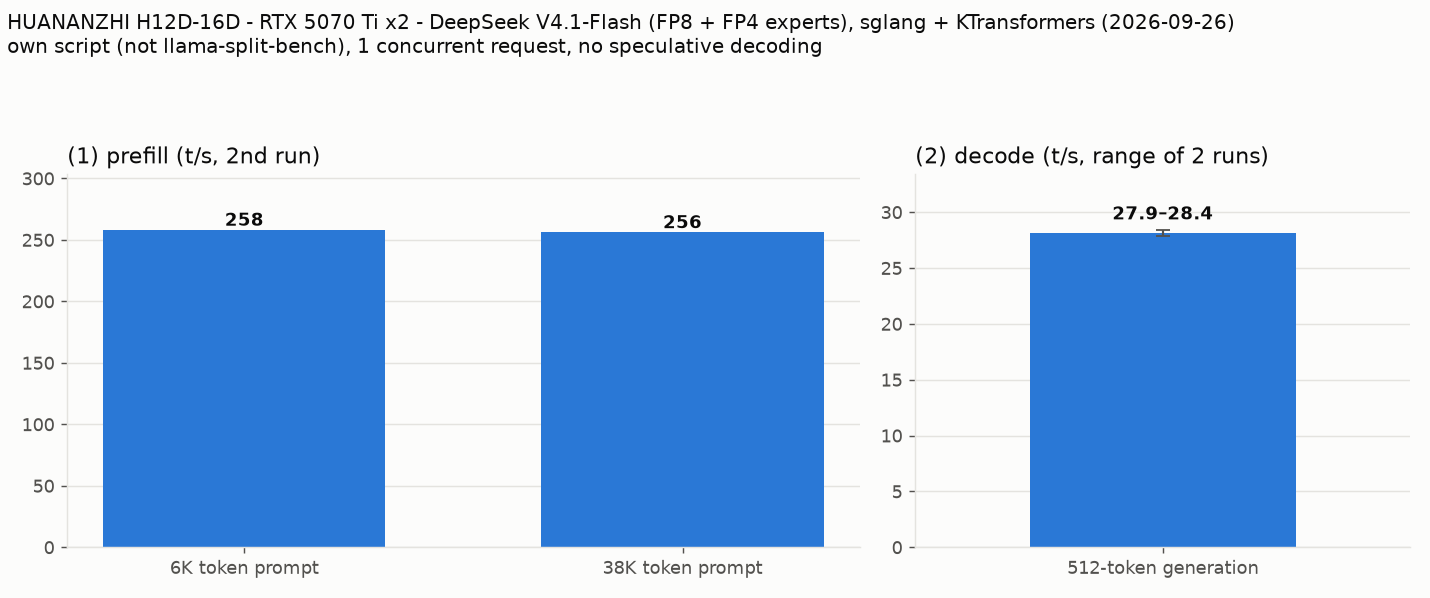
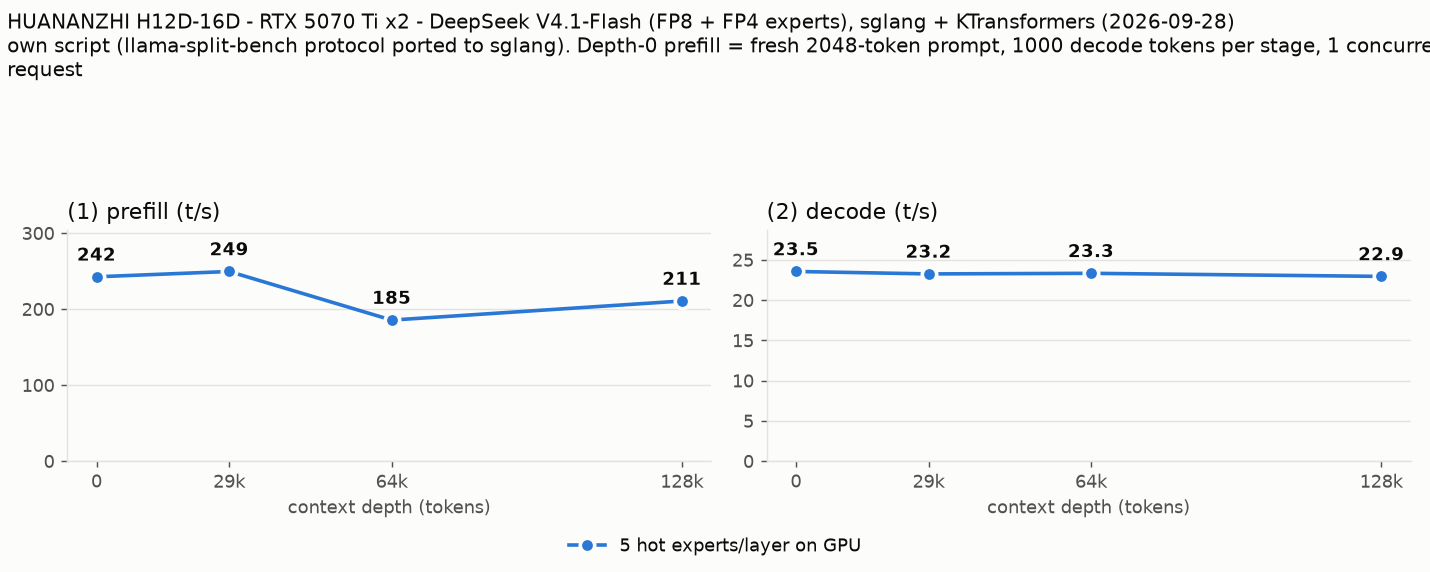
report: add the depth ladder (0/32K/64K/128K) as the main result
Maintainer request on #16: the llama-split-bench depth ladder, measured with the same
protocol ported to sglang (tools/sglang-ladder.py). The 09-26 real-prompt results stay
as a reference block.

diff --git a/report/2026-09-26_093347_running_deepseek_v4.1_flash_with_1m_context_on_2x_epyc_7452_and_2x_rtx_5070_ti_with_sglang_and_ktransformers.md b/report/2026-09-26_093347_running_deepseek_v4.1_flash_with_1m_context_on_2x_epyc_7452_and_2x_rtx_5070_ti_with_sglang_and_ktransformers.md
@@ -36,17 +36,41 @@ llama.cpp ではなく sglang＋KTransformers で動かしているため、llam
 
 | 項目 | 内容 |
 |------|------|
-| ツール | 自作スクリプト（sglang の OpenAI 互換 API にリクエストを送り、経過時間と usage から t/s を計算）。llama-split-bench は llama.cpp 専用のため使っていません |
+| ツール | 自作スクリプト [`tools/sglang-ladder.py`](https://github.com/05yuki/KTransformers/blob/main/tools/sglang-ladder.py)（llama-split-bench 7af72d4 の `measure_ladder.py` / `measure_pp0.py` と同じ手順を、sglang の `/generate` に移植したもの）。llama-split-bench は llama.cpp 専用のため使っていません |
 | モデル | [deepseek-ai/DeepSeek-V4.1-Flash](https://huggingface.co/deepseek-ai/DeepSeek-V4.1-Flash)（公式の重み）。本体は FP8（32×32 ブロック）、エキスパートは FP4。engram テーブル込みで 476 GB。40 層、ルーティングされるエキスパート 384 個中 6 個がアクティブ |
 | 測定モード | CPU/GPU 分担（TP=2）。GPU に置くもの: エキスパート以外のすべてと、各層で使用頻度の高いエキスパート 5 個（Marlin カーネル）。prefill: エキスパートを層ごとに GPU へ転送して計算（ホスト側の領域は起動時にピン留めし、ゼロコピーで転送）。engram: NVMe から直接読み出し |
-| ctx / stages | 1M / 深度ラダーなし（約 6K・約 38K トークンのプロンプトの prefill と、短いプロンプトからの 512 トークン生成） |
+| ctx / stages | 1M / 0,32000,64000,128000 |
 | KV キャッシュ | FP8（e4m3） |
 | 投機的デコード | なし |
-| その他 | prefill は実際に使っている日本語の執筆指示（約 38K トークン）とその先頭 11,000 文字（約 6K トークン）を max_tokens 1 で送信し、2 回目の値（1 回目は起動直後のウォームアップを含む）。プロンプトの先頭に毎回異なる文字列を付けてプレフィックスキャッシュを無効化。decode は `ignore_eos`・思考なしで 2 回。temperature 1.0 / top_p 0.95、同時リクエスト 1。測定日 2026-09-26 |
+| その他 | ラダーは llama-split-bench と同じ英語の合成テキストを使い、各段で前の段の文脈の続きを送ります（前の段までの KV はプレフィックスキャッシュで再利用し、増えた分だけを prefill）。各段の直後に greedy・`ignore_eos` で 1000 トークン生成。depth 0 の prefill は新規プロンプト（512 / 2048 / 8192 トークン、先頭に毎回異なる文字列を付けてキャッシュを無効化）で、表と図の depth 0 は 2048 トークンの値です。同時リクエスト 1、測定日 2026-09-28〜29。参考の実プロンプトの計測: prefill は実際に使っている日本語の執筆指示（約 38K トークン）とその先頭 11,000 文字（約 6K トークン）を max_tokens 1 で送信し、2 回目の値（1 回目は起動直後のウォームアップを含む）。プロンプトの先頭に毎回異なる文字列を付けてプレフィックスキャッシュを無効化。decode は `ignore_eos`・思考なしで 2 回。temperature 1.0 / top_p 0.95、同時リクエスト 1。測定日 2026-09-26 |
 
 ### 結果
 
 ![結果](attachment/2026-09-26_093347_running_deepseek_v4.1_flash_with_1m_context_on_2x_epyc_7452_and_2x_rtx_5070_ti_with_sglang_and_ktransformers/split-bench-ja.png)
+
+depth ごとの prefill / decode（t/s）。depth 0 の prefill は新規プロンプト（2048 トークン）の値です。decode はラダーの合成テキストでの実測値です。
+
+| depth | 実際の深さ（トークン） | prefill | decode |
+|------:|------:|------:|------:|
+| 0 | 0 | 242 | 23.5 |
+| 29k | 29,183 | 249 | 23.2 |
+| 64k | 64,926 | 185 | 23.3 |
+| 128k | 128,761 | 211 | 22.9 |
+
+depth 0 の新規プロンプト prefill（t/s）:
+
+| プロンプト長（トークン） | prefill |
+|------:|------:|
+| 493 | 91.0 |
+| 1,887 | 242 |
+| 7,404 | 241 |
+
+- 時間は sglang のサーバ側の記録（prefill の開始・終了時刻、decode のスループット）から計算しています
+- ラダーの計測時だけプレフィックスキャッシュを有効にし、KV キャッシュの確保を 262K トークンに下げています（普段の設定はキャッシュ無効・1M トークン確保。1M 確保のままでは 128K の段の prefill で VRAM が不足しました）
+
+ラダーの decode（英語の合成テキスト、greedy）は、下の実プロンプト（日本語、temperature 1.0）の値より低めです。GPU に置いた高頻度エキスパートは日本語の執筆でのルーティングから選んでいるため、合成テキストでは GPU 側で計算される割合が下がることが主な理由だと考えていますが、確認はしていません。
+
+#### 参考: 実際の執筆指示での計測（2026-09-26）
 
 プロンプト長ごとの prefill（t/s）。括弧内は所要時間です。
 
@@ -66,6 +90,7 @@ decode（t/s、2 回の範囲）:
 
 ### 所感
 
+- 深度ラダーでは、最も深い段（129k）まで decode は 22.9〜23.5 t/s、prefill は 185〜249 t/s で、深さによる低下はほとんどありませんでした。
 - decode は CPU のメモリ帯域どおりの値でした。EPYC 7452 はソケットあたり CCD が 4 つで、メモリ帯域の上限は DIMM ではなく CCD の数で決まっていました。
 - 長い prefill を続けて実行すると徐々に遅くなる現象があり、原因は熱でした。吸気温度が 47℃ を超えると CPU1 側のメモリ帯域が半分ほどに絞られます。CPU1 ソケットの直上にファンを追加して冷やし、安定させています。
 - コンテキスト長 1M を確保できるので、長い思考を伴う用途や、複数の文脈を並行して扱う用途はこのモデルに寄せています。
@@ -89,4 +114,6 @@ decode（t/s、2 回の範囲）:
 ## 添付
 
 - [split-bench-en.png](attachment/2026-09-26_093347_running_deepseek_v4.1_flash_with_1m_context_on_2x_epyc_7452_and_2x_rtx_5070_ti_with_sglang_and_ktransformers/split-bench-en.png)
-- [results.json](attachment/2026-09-26_093347_running_deepseek_v4.1_flash_with_1m_context_on_2x_epyc_7452_and_2x_rtx_5070_ti_with_sglang_and_ktransformers/results.json)
+- [results-ladder.json](attachment/2026-09-26_093347_running_deepseek_v4.1_flash_with_1m_context_on_2x_epyc_7452_and_2x_rtx_5070_ti_with_sglang_and_ktransformers/results-ladder.json) / [results-ladder-pp0.json](attachment/2026-09-26_093347_running_deepseek_v4.1_flash_with_1m_context_on_2x_epyc_7452_and_2x_rtx_5070_ti_with_sglang_and_ktransformers/results-ladder-pp0.json)
+- [run-info.json](attachment/2026-09-26_093347_running_deepseek_v4.1_flash_with_1m_context_on_2x_epyc_7452_and_2x_rtx_5070_ti_with_sglang_and_ktransformers/run-info.json)
+- [results.json](attachment/2026-09-26_093347_running_deepseek_v4.1_flash_with_1m_context_on_2x_epyc_7452_and_2x_rtx_5070_ti_with_sglang_and_ktransformers/results.json)（参考の実プロンプトの計測）
